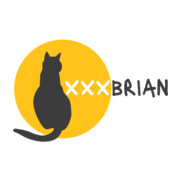
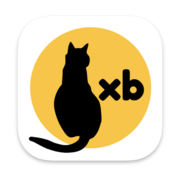
update inf

diff --git a/_includes/head.html b/_includes/head.html
@@ -39,6 +39,8 @@
 
     <!-- Favicon -->
     <link rel="shortcut icon" href="{{ site.baseurl }}/img/favicon.ico">
+    <link rel="mask-icon" href="{{ site.baseurl }}/img/safari-pinned-tab.svg" color="#5bbad5">
+    <link rel="apple-touch-icon" sizes="180x180" href="{{ site.baseurl }}/img/apple-touch-icon.png">
 
     <!-- Canonical URL -->
     <link rel="canonical" href="{{ page.url | replace:'index.html','' | prepend: site.baseurl | prepend: site.url }}">

diff --git a/_includes/about/en.md b/_includes/about/en.md
@@ -1,33 +1,1 @@
-Hi, I am _@huxpro_ (Huang, Xuan), an UI/Frontend engineer & designer, accidentally growing into a compiler hacker. My current interests range from programming languages theory and implementation in general (compiler, type system, type-based formal verification, virtual machine, runtime systems, garbage collection) to software engineering in the tech industry (client-side web/mobile app development, server-side backend, user interface and UX, developer infrastructure and DX). 
-
-I'm currently working on the [Hermes JavaScript Engine](https://hermesengine.dev/) at [Facebook](http://facebook.com/). I was also involved in some of the [Facebook Reality Labs](https://tech.fb.com/ar-vr/) and the [ReasonML](https://reasonml.github.io/) (now [ReScript](https://rescript-lang.org/)) efforts. I'm also passionated about [React](https://reactjs.org/) and [React Native](https://reactnative.dev/). 
-
-In the past, I worked on [Alitrip (Fliggy)](https://www.alitrip.com/) mobile and web apps under the [Alibaba Group](https://en.wikipedia.org/wiki/Alibaba_Group), found and lead front-end infrastructure team at an unicorn startup company [Beijing Weiying (a.k.a. WePiao, now acquired by Maoyan)](https://www.crunchbase.com/organization/beijing-weiying-technology), and helped [Ele.me (now acquired by Alibaba)](https://en.wikipedia.org/wiki/Ele.me) to upgrade their mobile web site into [the first influential PWA (progressive web app) in China](https://medium.com/elemefe/upgrading-ele-me-to-progressive-web-app-2a446832e509).
-
-I studied BA, Digital Media Art at [Communication University of China](https://en.wikipedia.org/wiki/Communication_University_of_China) and MS, Computer Science (with a focus on programming languages) at [Rochester Institute of Technology](https://en.wikipedia.org/wiki/Rochester_Institute_of_Technology).
-
-##### [My PL Spectrum (WIP 🚧)](https://huangxuan.me/2020/05/05/pl-chart/)
-
-I made a chart to visualize my experiences and interests on some of the programming languages. I know. I know this is always contraversial. But it's just something quite self-entertaining to do. So bare with me and have fun reading that!
-
-##### Appearence
-
-- [Upgrading to Progressive Web Apps][9] · [JSConf China Shanghai 2017](http://2017.jsconf.cn/)
-- Building Progressive Web Apps · [CSDI Guangzhou 2017](http://www.csdisummit.com/)
-- The State of Progressive Web App · GDG IO Redux Beijing 2017
-- PWA Rehashing · Baidu HQ Beijing 2017
-- [Service Worker 101][5] · GDG DevFest Beijing 2016
-- [Progressive Web Apps][4] · QCon Shanghai 2016
-- Progressive Web App in my POV · GDG IO Redux Beijing 2016
-- [CSS Still Sucks 2015][2] · 2015
-- [JavaScript Modularization Journey][1] · 2015
-
-[1]: //huangxuan.me/2015/07/09/js-module-7day/
-[2]: //huangxuan.me/2015/12/28/css-sucks-2015/
-[3]: //huangxuan.me/2016/06/05/pwa-in-my-pov/
-[4]: //huangxuan.me/2016/10/20/pwa-qcon2016/
-[5]: //huangxuan.me/2016/11/20/sw-101-gdgdf/
-[6]: https://yanshuo.io/assets/player/?deck=58ac8598b123db0067292f92 "PWA Rehashing"
-[7]: https://yanshuo.io/assets/player/?deck=593ad6fbfe88c2006a0a0d6d "The State of PWA"
-[8]: https://yanshuo.io/assets/player/?deck=594d673d570c357d0698a950 "Building PWA"
-[9]: //huangxuan.me/jsconfcn2017/
+Hi, I am Brian.

diff --git a/_includes/about/zh.md b/_includes/about/zh.md
@@ -1,31 +1,1 @@
-Hi，我是黄玄，前端娱乐圈 NPC，编程语言/编译器初心者，[Facebook](https://www.facebook.com/) 签约软件工程师，[广院](https://baike.baidu.com/item/%E4%B8%AD%E5%9B%BD%E4%BC%A0%E5%AA%92%E5%A4%A7%E5%AD%A6)认证数字设计师，曾被招募为阿里巴巴 · [阿里旅行（飞猪）](http://alitrip.com)· 前端工程师、微影时代 · 微票儿 · 前端基础设施工程团队负责人、[饿了么](https://ele.me/) · 大前端团队 · [PWA 顾问](https://medium.com/elemefe/upgrading-ele-me-to-progressive-web-app-2a446832e509) 等。
-
-目前的物理活动范围主要在美帝硅谷，分身日常出没于[博客](https://huangxuan.me)、[微博](https://weibo.com/huxpro)、[知乎](https://www.zhihu.com/people/huxpro/pins/posts)、[Twitter](https://twitter.com/Huxpro/)、[Github](https://github.com/huxpro)、[Medium](https://medium.com/@Huxpro)。
-
-
-##### [我的编程语言可视化 (WIP 🚧)](https://huangxuan.me/2020/05/05/pl-chart/)
-
-这个图表可视化了我对于各种编程语言的使用经历、兴趣，还附带了一些评语和解释等等。 啊我知道对比编程语言是一件很有争议的事情……自娱自乐一下！不要太较真哦 ;)
-
-
-##### 演讲与分享
-
-- [Upgrading to Progressive Web Apps][9] · [JSConf CN 上海 2017](http://2017.jsconf.cn/)
-- Building Progressive Web Apps · [CSDI 广州 2017](http://www.csdisummit.com/)
-- The State of Progressive Web App · GDG IO Redux 北京 2017
-- 炒冷饭 · PWA 到底是个什么玩意？· Baidu HQ 北京 2017
-- [Service Worker 101][5] · GDG DevFest 北京 2016
-- [Progressive Web App，复兴序章][4] · [QCon 上海 2016](http://2016.qconshanghai.com/presentation/3111)
-- Progressive Web App 之我见 · GDG IO Redux 北京 2016
-- [CSS Still Sucks 2015][2] · 2015
-- [JavaScript 模块化七日谈][1] · 2015
-
-[1]: //huangxuan.me/2015/07/09/js-module-7day/
-[2]: //huangxuan.me/2015/12/28/css-sucks-2015/
-[3]: //huangxuan.me/2016/06/05/pwa-in-my-pov/
-[4]: //huangxuan.me/2016/10/20/pwa-qcon2016/
-[5]: //huangxuan.me/2016/11/20/sw-101-gdgdf/
-[6]: https://yanshuo.io/assets/player/?deck=58ac8598b123db0067292f92 "PWA Rehashing"
-[7]: https://yanshuo.io/assets/player/?deck=593ad6fbfe88c2006a0a0d6d "The State of PWA"
-[8]: https://yanshuo.io/assets/player/?deck=594d673d570c357d0698a950 "Building PWA"
-[9]: //huangxuan.me/jsconfcn2017/
+Hi，我是李帛锦。
